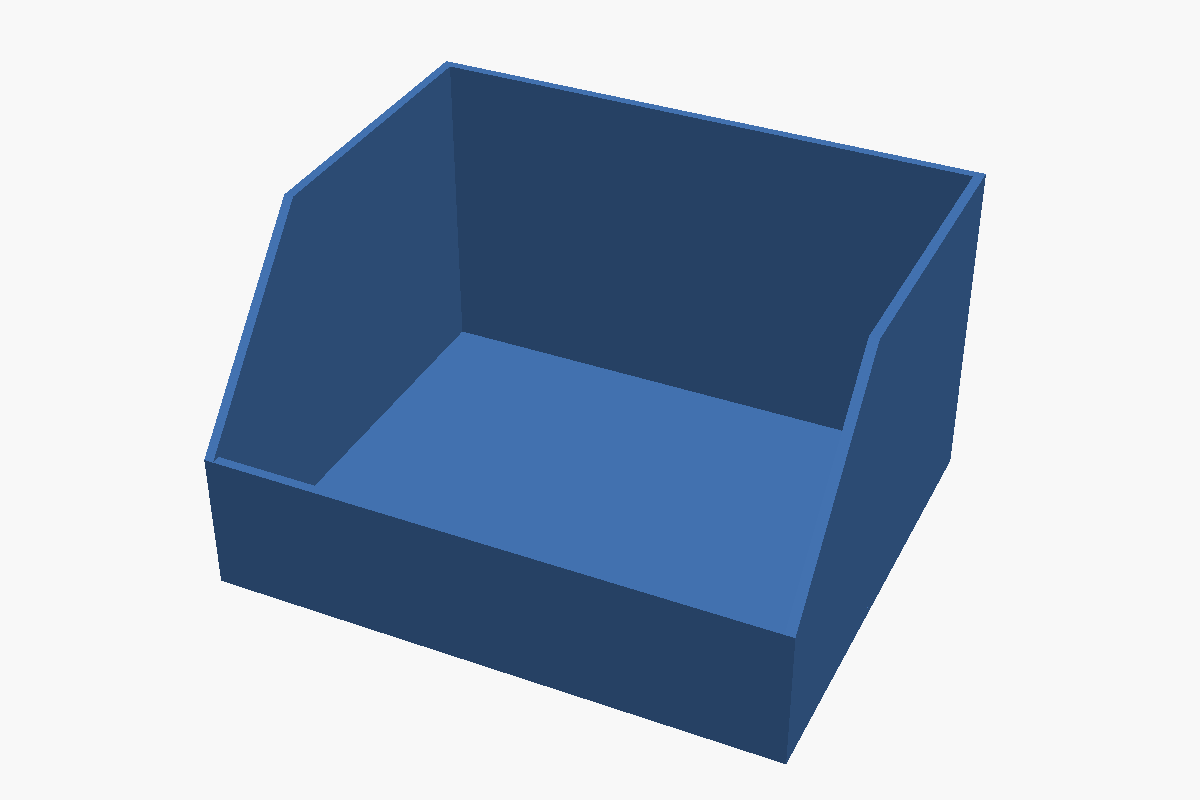
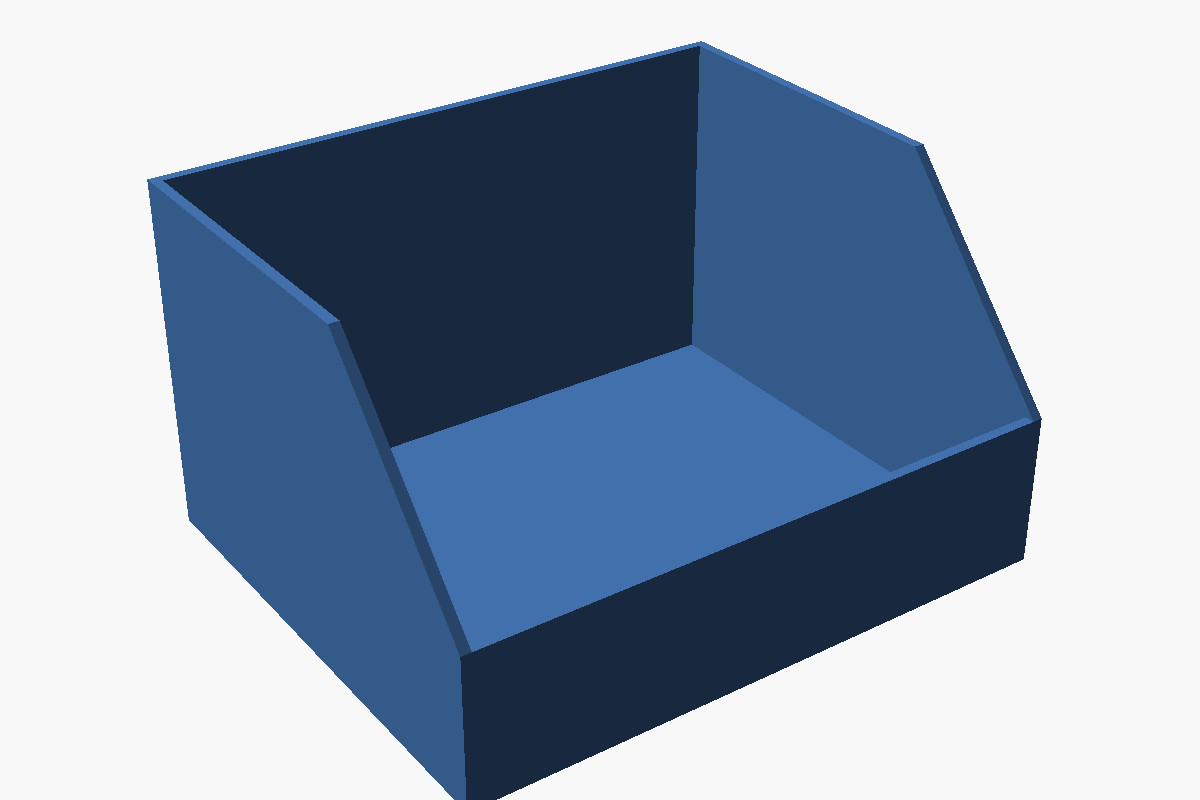
feat: optional stackable lip + recess with zero interior loss
Adds stackable/stack_lip_h/stack_clearance customizer params. Inner-half lip on top of back+rear-side walls mates with a U-shaped recess in the floor underside, so stacked bins lose only ~lip height (3mm default) of total stack height -- no interior volume sacrificed. Refactors bin() to accept stack/lip_h/clearance overrides so external scripts can use it via use<>. Adds docs/_render-stacked.scad and docs/preview-stacked.png.

diff --git a/README.md b/README.md
@@ -18,9 +18,12 @@ You can also customise the dimensions directly on MakerWorld via the Parametric 
 
 - Fully parametric: width, depth, height, front-wall height, chamfer length, wall and floor thickness
 - Diagonal chamfer on the side walls for easy access to contents
+- **Optional stacking interface** — inner lip on top mates with a recess on the bottom, so bins stack securely without sacrificing any interior volume
 - Optional bottom-edge chamfer to relieve elephant-foot artefacts
 - Printer presets for Bambu Lab **P1S**, **P2S**, **H2C**, **H2D** (auto-clamps dimensions to the build volume) plus a **Custom** option
 - Single STL — prints flat on the build plate, no supports required
+
+![Stacked bins preview](docs/preview-stacked.png)
 
 ## Parameters
 
@@ -34,10 +37,28 @@ All parameters are exposed via the OpenSCAD Customizer (and the MakerWorld Param
 | Front Opening | `front_height` | Height of the short front wall |
 | Front Opening | `chamfer_len` | Length of the diagonal chamfer along the side walls (0 = vertical step) |
 | Walls | `wall`, `floor_t` | Wall and floor thickness |
+| Stacking | `stackable` | Off (default) or On — adds a lip on top + recess on bottom so bins stack |
+| Stacking | `stack_lip_h` | Height of the lip / depth of the recess (mm, default 3.0) |
+| Stacking | `stack_clearance` | Horizontal fit clearance per side (mm, default 0.2) |
 | Cosmetic | `bottom_chamfer` | Outer bottom-edge chamfer for elephant-foot relief |
 | Quality | `$fn` | Render smoothness |
 
 Geometric inputs are clamped internally, so any combination of slider values produces a valid model.
+
+### Stacking — how it works
+
+Set `stackable = On` to make a bin stack with other identical-footprint bins. The geometry adds:
+
+- A **lip** on the top of the back wall and the rear half of both side walls. The lip uses the **inner half** of the wall thickness, so the bin's outer footprint stays flat from the outside.
+- A matching **U-shaped recess** in the underside of the floor (back + rear-sides).
+
+When you stack two bins, the lip of the lower bin slots into the recess of the upper bin. **No interior storage volume is lost** — only ~`stack_lip_h` (default 3 mm) is "consumed" from the total stack height.
+
+Notes:
+
+- The open front means there is no lip across the front of the bin, only on the back and rear-side sections — but that's plenty for lateral stability.
+- For tall narrow bins or heavy contents, consider increasing `wall` to 2.4–3.0 mm so the half-thickness lip stays rigid.
+- All stacked bins must have the same `width`, `depth`, `wall`, and `stack_lip_h` for the fit to work.
 
 ## Installing OpenSCAD
 